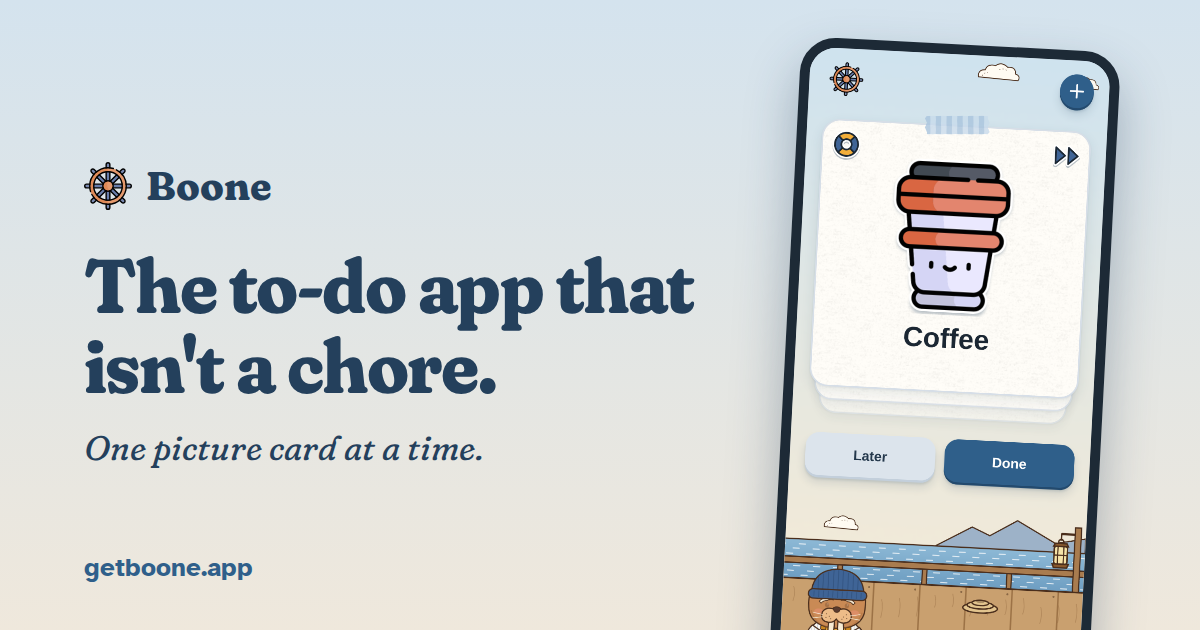
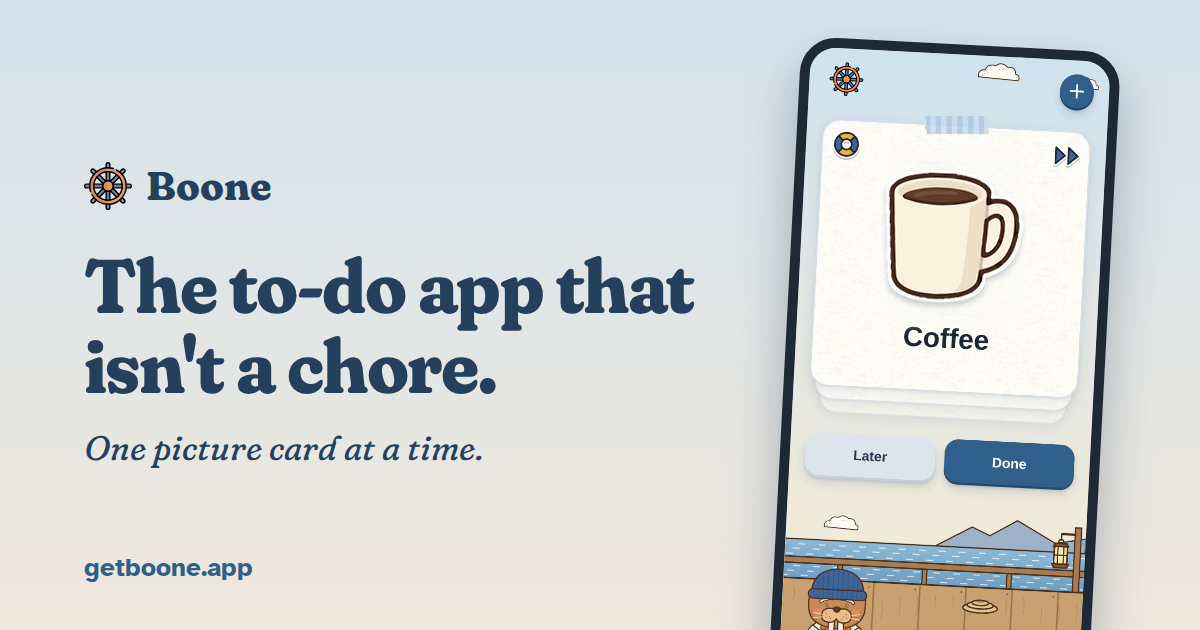
Use Boone's own card and step pictures everywhere on the site (#56)
Replaces the Flaticon pictures on the top card demo, the ready-made row,
Break It Down, the link preview and the welcome email pictures.

Claude-Session: https://claude.ai/code/session_01DcAsRdVhoUAcaA1hRJqdpX

Changed region(s): [[0.74, 0.2413, 0.8633, 0.5127]]

diff --git a/index.html b/index.html
@@ -19,7 +19,7 @@
 <link rel="icon" href="favicon.png">
 <link rel="preload" href="fonts/7b114e24f7.woff2" as="font" type="font/woff2" crossorigin>
 <link rel="stylesheet" href="fonts.css?v=1791385613">
-<link rel="stylesheet" href="site.css?v=1791385613">
+<link rel="stylesheet" href="site.css?v=1791386580">
 <script type="application/ld+json">
 [
  {
@@ -88,7 +88,7 @@
 <section data-e="e15" data-c="e15" class="tried">
   <p data-e="e90" class="what-it-is">A free visual to-do list and planner for your phone.</p>
   <div data-e="e16" class="ready">
-    <div class="ready-pics" aria-hidden="true"><img src="img/cards/pet-food.png" alt="" width="288" height="288" loading="lazy"><img src="img/cards/washing-dishes.png" alt="" width="288" height="288" loading="lazy"><img src="img/cards/supermarket.png" alt="" width="288" height="288" loading="lazy"><img src="img/cards/meditation.png" alt="" width="288" height="288" loading="lazy"><img src="img/cards/bed.png" alt="" width="288" height="288" loading="lazy"></div>
+    <div class="ready-pics" aria-hidden="true"><img src="img/own/water-plants.webp" alt="" width="288" height="288" loading="lazy"><img src="img/own/wash-dishes.webp" alt="" width="288" height="288" loading="lazy"><img src="img/own/grocery-bag.webp" alt="" width="288" height="288" loading="lazy"><img src="img/own/pay-bills.webp" alt="" width="288" height="288" loading="lazy"><img src="img/own/cook-dinner.webp" alt="" width="288" height="288" loading="lazy"></div>
     <p data-e="e17"><b>Skip the typing.</b> Over 1,200 ready-made cards, each with a picture.<br>Tap one and it's on your day.</p>
     <p data-e="e83" class="own">Can't find it? Make your own card.</p>
   </div>
@@ -103,13 +103,13 @@
     <div class="card big">
       <span class="callout" id="buoy-callout" aria-hidden="true">Tap me</span>
       <button class="buoy-btn" id="buoy" type="button" aria-label="Break It Down" aria-expanded="true" aria-controls="steps"><svg class="buoy" aria-hidden="true" viewBox="-3 -3 30 30" xmlns="http://www.w3.org/2000/svg"><g opacity=".25" transform="translate(0 .8)"><path d="M4.929 4.929A10 10 0 0 1 19.071 4.929L15.182 8.818A4.5 4.5 0 0 0 8.818 8.818Z" fill="#24405C" stroke="#24405C" stroke-width="4" stroke-linejoin="round"/><path d="M19.071 4.929A10 10 0 0 1 19.071 19.071L15.182 15.182A4.5 4.5 0 0 0 15.182 8.818Z" fill="#24405C" stroke="#24405C" stroke-width="4" stroke-linejoin="round"/><path d="M19.071 19.071A10 10 0 0 1 4.929 19.071L8.818 15.182A4.5 4.5 0 0 0 15.182 15.182Z" fill="#24405C" stroke="#24405C" stroke-width="4" stroke-linejoin="round"/><path d="M4.929 19.071A10 10 0 0 1 4.929 4.929L8.818 8.818A4.5 4.5 0 0 0 8.818 15.182Z" fill="#24405C" stroke="#24405C" stroke-width="4" stroke-linejoin="round"/></g><path d="M4.929 4.929A10 10 0 0 1 19.071 4.929L15.182 8.818A4.5 4.5 0 0 0 8.818 8.818Z" fill="#fff" stroke="#fff" stroke-width="4" stroke-linejoin="round"/><path d="M19.071 4.929A10 10 0 0 1 19.071 19.071L15.182 15.182A4.5 4.5 0 0 0 15.182 8.818Z" fill="#fff" stroke="#fff" stroke-width="4" stroke-linejoin="round"/><path d="M19.071 19.071A10 10 0 0 1 4.929 19.071L8.818 15.182A4.5 4.5 0 0 0 15.182 15.182Z" fill="#fff" stroke="#fff" stroke-width="4" stroke-linejoin="round"/><path d="M4.929 19.071A10 10 0 0 1 4.929 4.929L8.818 8.818A4.5 4.5 0 0 0 8.818 15.182Z" fill="#fff" stroke="#fff" stroke-width="4" stroke-linejoin="round"/><path d="M4.929 4.929A10 10 0 0 1 19.071 4.929L15.182 8.818A4.5 4.5 0 0 0 8.818 8.818Z" fill="#F2AE3A" stroke="#1B2733" stroke-width="1.4" stroke-linejoin="round"/><path d="M19.071 4.929A10 10 0 0 1 19.071 19.071L15.182 15.182A4.5 4.5 0 0 0 15.182 8.818Z" fill="#3F6496" stroke="#1B2733" stroke-width="1.4" stroke-linejoin="round"/><path d="M19.071 19.071A10 10 0 0 1 4.929 19.071L8.818 15.182A4.5 4.5 0 0 0 15.182 15.182Z" fill="#F2AE3A" stroke="#1B2733" stroke-width="1.4" stroke-linejoin="round"/><path d="M4.929 19.071A10 10 0 0 1 4.929 4.929L8.818 8.818A4.5 4.5 0 0 0 8.818 15.182Z" fill="#3F6496" stroke="#1B2733" stroke-width="1.4" stroke-linejoin="round"/></svg></button>
-      <img src="img/trash.png" alt="" width="288" height="288" loading="lazy"><span>Take Out Trash</span>
+      <img src="img/own/take-out-trash.webp" alt="" width="576" height="576" loading="lazy"><span>Take Out Trash</span>
     </div>
     <svg class="arrow" viewBox="0 0 80 40" aria-hidden="true"><path d="M4 22 C 24 6, 48 6, 70 18" fill="none" stroke="currentColor" stroke-width="3" stroke-linecap="round" stroke-dasharray="2 7"/><path d="M60 10 L71 18 L59 24" fill="none" stroke="currentColor" stroke-width="3" stroke-linecap="round" stroke-linejoin="round"/></svg>
     <div class="steps" id="steps" aria-live="polite">
-      <div class="card small"><img src="img/plastic-bag.png" alt="" width="288" height="288" loading="lazy"><span>Tie up the trash bag</span></div>
-      <div class="card small"><img src="img/garbage.png" alt="" width="288" height="288" loading="lazy"><span>Carry it to the outside bin</span></div>
-      <div class="card small"><img src="img/trash-can.png" alt="" width="288" height="288" loading="lazy"><span>Put a new bag in the can</span></div>
+      <div class="card small"><img src="img/own/tie-up-the-trash-bag.webp" alt="" width="288" height="288" loading="lazy"><span>Tie up the trash bag</span></div>
+      <div class="card small"><img src="img/own/carry-it-to-the-outside-bin.webp" alt="" width="288" height="288" loading="lazy"><span>Carry it to the outside bin</span></div>
+      <div class="card small"><img src="img/own/put-a-new-bag-in-the-can.webp" alt="" width="288" height="288" loading="lazy"><span>Put a new bag in the can</span></div>
     </div>
   </div>
   <div data-e="e28" data-c="e28" class="bd-more">
@@ -215,7 +215,7 @@
   <p data-e="e86" class="fine marks">iPhone is a trademark of Apple Inc. Android is a trademark of Google LLC. The Android robot is reproduced or modified from work created and shared by Google and used according to terms described in the Creative Commons 3.0 Attribution License.</p>
 </footer>
 
-<script data-e="e80" src="site.js?v=1791385613"></script>
+<script data-e="e80" src="site.js?v=1791386580"></script>
 <script data-goatcounter="https://boone.goatcounter.com/count" async src="//gc.zgo.at/count.js"></script>
 </body>
 </html>

diff --git a/site.js b/site.js
@@ -6,8 +6,8 @@ const reloaded = performance.getEntriesByType('navigation')[0]?.type === 'reload
 if (reloaded && location.hash) history.replaceState(null, '', location.pathname + location.search);
 if (reloaded || !location.hash) window.scrollTo(0, 0);
 const CARDS = [
-  ['Wake Up', 'wake-up'], ['Coffee', 'coffee'], ['Brush Teeth', 'toothbrush'],
-  ['Charge Phone', 'wireless-charging'], ['Send a Text', 'texting'], ['Start Laundry', 'washing-machine'],
+  ['Wake Up', 'wake-up'], ['Coffee', 'coffee'], ['Brush Teeth', 'brush-teeth'],
+  ['Charge Phone', 'charge-phone'], ['Send a Text', 'send-a-text'], ['Start Laundry', 'start-laundry'],
 ];
 const stack = document.getElementById('stack');
 const left = document.getElementById('left');
@@ -25,7 +25,7 @@ function draw(announce) {
     return;
   }
   const [name, pic] = cards[0];
-  stack.innerHTML = `<div class="card big"><span class="tape"></span><img src="img/${pic}.png" alt=""><span>${name}</span></div><div class="under one"></div><div class="under two"></div>`;
+  stack.innerHTML = `<div class="card big"><span class="tape"></span><img src="img/own/${pic}.webp" alt=""><span>${name}</span></div><div class="under one"></div><div class="under two"></div>`;
   left.textContent = announce ? `${cards.length} left` : '';
 }
 

diff --git a/site.css b/site.css
@@ -319,4 +319,6 @@ footer .marks { max-width: 640px; margin: 10px auto 0; font-size: 12px; line-hei
 .what-it-is { margin: 0 0 24px; text-align: center; font: 600 20px/1.35 var(--serif); color: var(--navy); text-wrap: balance; }
 .promise:has(+ .for-anyone) { padding-bottom: 8px; }
 .for-anyone { max-width: 680px; margin: 0 auto; padding: 0 20px 56px; text-align: center; font-size: 18px; color: var(--muted); text-wrap: balance; }
-.split .card.big img { height: auto; }
+.split .card.big img { width: 150px; height: auto; }
+.stack .card.big img { width: 176px; height: 176px; }
+.ready-pics img { padding: 4px; }
